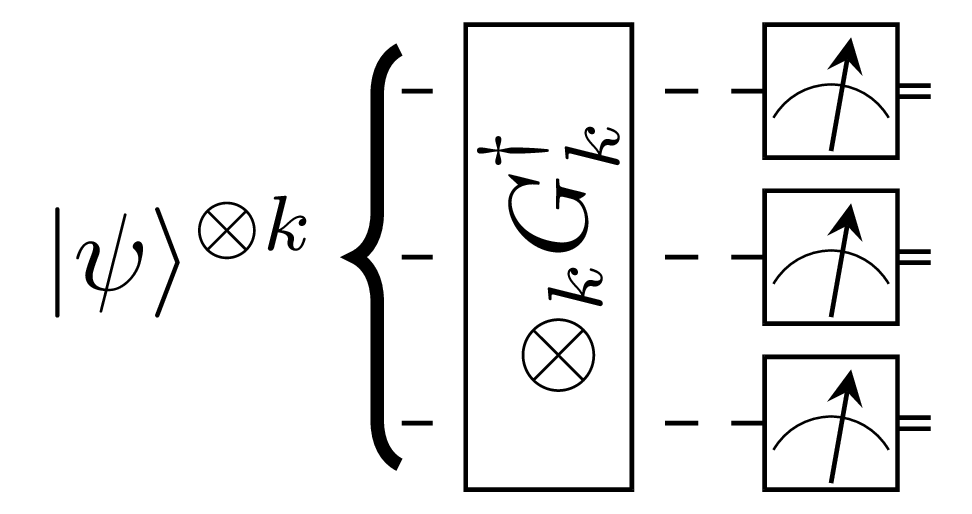
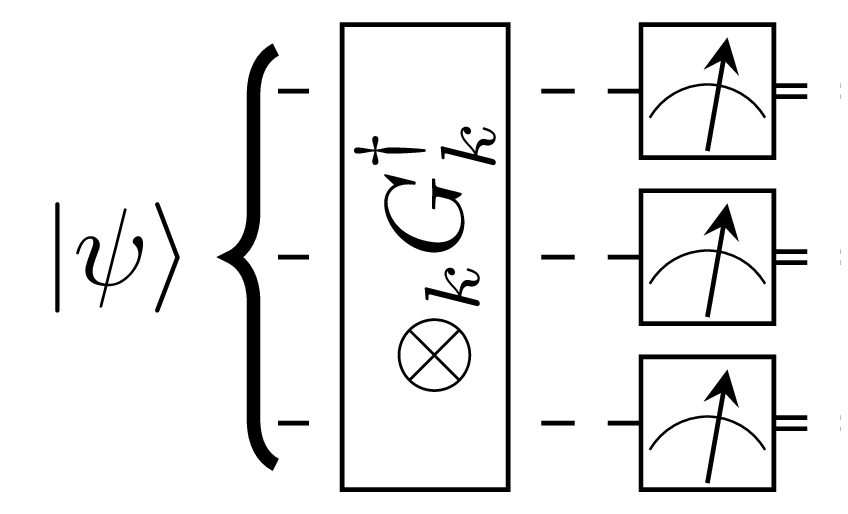
Section on ansatz design.

Changed region(s): [[0.0307, 0.0311, 0.9811, 0.965]]

diff --git a/_code/vqe/compilation.py b/_code/vqe/compilation.py
@@ -45,14 +45,26 @@ def two_qubits_2(theta_1, theta_2, theta_3, phi_1, phi_2, phi_3):
 
     return qml.counts(qml.PauliZ(0) @ qml.PauliZ(1))
 
+def crx_circuit(theta_1, phi_1, theta_2, phi_2):
+    # qml.RY(theta_1, wires = [1])
+    # qml.PhaseShift(phi_1, wires = [1])
+    qml.CRX(theta_2, wires = [1, 0])
+    # qml.ControlledPhaseShift(phi_2, wires = [0, 1])
+    return qml.counts(qml.PauliX(0) @ qml.PauliZ(1))
+
 if __name__ == "__main__":
-    angles = np.random.normal(0, np.pi, 6)
+    # angles = np.random.normal(0, np.pi, 6)
+    # compiled_circuit = qml.compile(
+    #     basis_set = ["CNOT", "RY", "RZ"],
+    #     num_passes = 5
+    # )(two_qubits_2)
 
     compiled_circuit = qml.compile(
-        basis_set = ["CNOT", "RY", "RZ"],
+        basis_set = ["CNOT", "RX", "RZ"],
         num_passes = 5
-    )(two_qubits_2)
-    qnode = qml.QNode(compiled_circuit, dev)
+    )(crx_circuit)
+    angles = np.random.normal(0, np.pi, 4)
 
+    qnode = qml.QNode(compiled_circuit, dev)
     qml.draw_mpl(qnode, decimals = 1, style = "sketch")(*angles)
     plt.show()

diff --git a/_code/vqe/h-vqe.py b/_code/vqe/h-vqe.py
@@ -10,8 +10,8 @@ dev = qml.device(
 
 @qml.qnode(dev)
 def hadamard_cost(theta):
-    qml.PhaseShift(theta[0], wires = 0)
     qml.RY(theta[1], wires = 0)
+    qml.PhaseShift(theta[0], wires = 0)
     return qml.expval(qml.Hadamard(0))
 
 def vqe(cost, theta, maxiter):

diff --git a/_drafts/2023-07-20-variational-quantum-eigensolver.md b/_drafts/2023-07-20-variational-quantum-eigensolver.md
@@ -779,7 +779,7 @@ given a state $\ket{\psi}$ is given by the circuit that follows:
         <span class='caption-label'>Measurement of the
         $H= \bigotimes_{k} \sigma_{k}^{(l)}$ observable:</span>
         even though only three wires/qubits are shown, the state
-        $\ket{\psi}^{\otimes k}$ is built from $k$ qubits,
+        $\ket{\psi}$ is built from $k$ qubits,
         whence the dashed lines.
     </div>
 </div>
@@ -1671,6 +1671,212 @@ so they understand the limitations of VQE, especially
 the *measurement problem*.
 
 ## Ansatz design
+Designing an ansatz is certainly no easy task.
+Building up on the work already done, ansätze can be classified
+into fixed structure or adaptive structure ansätze, see {% cite Tilly_2022 %}.
+
+The software engineer will generally experiment with various ansätze
+for a specific problem via educated guessing.  
+And when appropriate build upon existing ansätze.
+
+Fixed structure ansätze are those where the circuit structure doesn't change
+between optimization phases. In adaptive strucutre ansätze, the circuit
+structure changes as the circuit structure is adapted to the problem
+being solved.
+
+Since this article is meant to serve as an introduction to VQE,
+we won't bother about adaptive structure ansätze;
+we discuss only fixed structure ansätze.  
+Moreover, even in fixed structure ansätze, we will try
+to restrict ourselves to ansätze that a software engineer can tackle.
+
+In fixed structure ansätze, *I* do the following classification:
+1. Physics inspired ansätze.
+2. Hardware inspired ansätze.
+3. Mathematics inspired ansätze.
+
+### Physics inspired ansätze
+In physics inspired ansätze, we look at the structure of the ansätze
+and decide how best to tailor the circuit such that we can efficiently
+search the Hilbert space.
+
+There are two ansätze that have featured prominently with applications
+in quantum chemistry and condensed matter physics.
+
+Since we are software engineers,
+it is not worth our while to study these ansätze in detail,
+it is sufficient to know they exist.
+
+#### Unitary coupled cluster (UCC) ansatz
+This is the ansatz that was used in the original work on VQE {% cite Peruzzo_2014 %}.
+It comes from [coupled cluster theory](https://en.wikipedia.org/wiki/Coupled_cluster)
+for studying many-body systems and has found many uses in *ab initio* quantum
+chemistry.
+
+#### Hamiltonian variational ansatz (HVA)
+The Hamiltonian variational ansatz builds upon the Hamiltonian
+to be studied. The circuit is built by taking the exponential
+of non-commuting terms in the Hamiltonian.
+That procedure gives us unitaries that can be decomposed
+into gates.
+
+The paper that proposed this ansatz, {% cite Wecker_2015 %}
+shows that the ansatz doesn't perform very well in quantum chemistry
+applications but does well on the Hubbard model, a condensed
+matter physics problem.
+
+Since condensed matter physics is one of the fields
+where we expect quantum computing to help, if faced
+with a problem from condensed matter physics,
+HVA is a good ansatz to try out.
+
+### Hardware inspired ansätze 
+The basic idea of hardware inspired ansätze is that
+we create a circuit that closely matches the structure
+of the hardware, most importantly the native gateset,
+and if possible the topology of the device.
+
+This type of ansätze came from {% cite Kandala_2017 %}
+and the original is called hardware-efficient ansatz (HEA).
+There are many variants of it now but this one
+is sufficient to get start.
+
+#### Hardware-efficient ansatz (HEA)
+The fundemental structure of the hardware-efficient ansatz
+is to start with a layer of rotations gates acting individualy
+on each qubit as in the figure that follows:
+
+<div class='figure'>
+    <img src='/assets/images/vqe/hea-init-layer.png'
+         style='width: 40%; height: auto; display: block; margin: 0 auto'/>
+    <div class='caption'>
+        <span class='caption-label'>Possible rotation block of HEA:</span>
+        we have chosen $RX$ and $RY$ as
+        our rotation gates.
+    </div>
+</div>
+
+Then we follow that initialization step with a layer of entangling gates.
+We will generally want the entangling layer to reflect the topology of the
+device so we can avoid introducing additional $SWAP$ gates to account for
+qubits that are not connected directly on the device.
+This layer will look something like what follows in the figure below:
+
+<div class='figure'>
+    <img src='/assets/images/vqe/hea-entangling-layer.png'
+         style='width: 20%; height: auto; display: block; margin: 0 auto'/>
+    <div class='caption'>
+        <span class='caption-label'>Possible entangling block of HEA:</span>
+        we have chosen $CNOT$ gates as our entanglers.
+    </div>
+</div>
+
+The parametrized quantum circuit for HEA will have a general
+structure as per the formula that follows:
+
+{% katexmm %}
+$$
+\begin{align}
+    \ket{\psi(\vec{\theta})} &= \prod_{q=1}^{N} \left[ U^{q,d}(\vec{\theta}) \right] \times U_{ENT} \\
+    &\times \prod_{q=1}^{N} \left[ U^{q,d-1}(\vec{\theta}) \right] \times U_{ENT} \\
+    &\times \cdots \times \\
+    &\times \prod_{q=1}^{N} \left[ U^{q,0}(\vec{\theta}) \right] \ket{00\dots0}
+\end{align}
+$$
+{% endkatexmm %}
+
+Where $q$ is the qubit index up to $N$ qubits and $d$ is number of layers
+since we are allowed to repeat the various rotation and entangling blocks.
+$U^{q,l}(\vec{\theta})$ is the block of rotations acting on $q$ qubits
+in the $d^{th}$ block. Note that if a block in a layer has $M$ rotation gates
+per qubits acting on $N$ qubits, we will need $M \times N$ parameters per block.
+
+<div class='figure figure-alert' style='margin-top: 10px'>
+<div class='caption'>
+    <div class='caption-label'>
+        Exercise
+    </div>
+    The reader is encouraged to use HEA for the two-qubits example(s)
+    we have encounted thus far and explore with changing the number
+    of layers.
+</div>
+</div>
+
+### Mathematics inspired ansätze
+In this class of ansätze, we don't look at the make of the hardware
+nor do we take into consideration the structure of the problem.
+
+The premise is this: how do we prepare arbitrary quantum states?
+There are two ways:
+1. State preparation: start from a know state and ask what circuit
+    would allow us to explore the Hilbert space starting from that state.
+2. Gate synthesis: given an arbitrary starting state, what circuit
+    would allow us to explore the entire Hilbert space?
+
+We have already encountered ansätze based on state preparation
+so there should be no suprise there.
+The gate synthesis problem on the other hand is based
+on create a unitary that prepares an arbitrary quantum state
+then decomposing that unitary into a given gateset
+(that of the device we will run on).
+
+Both approaches fall into the area of quantum compiling
+and this subsection cannot do it justice.
+We will therefore only broach the subject and point
+the reader to a couple of resources.
+
+#### State preparation ansatz
+We learned how to prepare states starting from $\ket{00\dots0}$
+in the previous sections and derived circuits for one and two qubits
+circuits.
+
+But we also learned that the circuits derived are inefficient with
+regard to the number of $CNOT$ gates. This is important because
+$CNOT$ gates are known to be very noisy so they reduce
+the quality of our ansatz.
+
+For two qubits, for instance, it is known that we would not
+need more than a single $CNOT$ gate using the Schmidt decomposition.
+
+The method can be generalized to multiple qubits and is elaborate
+upon in {% cite Murta_2023 %}.
+
+<div class='figure figure-alert' style='margin-top: 10px'>
+<div class='caption'>
+    <div class='caption-label'>
+        Exercise
+    </div>
+    The reader is encouraged to read section VII of the paper
+    {% cite Murta_2023 %} and implement the procedure elaborate
+    upon therein.
+</div>
+</div>
+
+#### Gate synthesis ansatz
+In the gate synthesis ansatz, we build a circuit
+that is capable of preparing any quantum state
+irrespective of the starting state.
+
+This may not be as efficient as the Schmidt decomposition
+but it is still a valid procedure to build ourselves
+ansätze. For instance, the gate synthesis for two qubits
+will produce a circuit with 3 $CNOT$ gates.
+
+A circuit for two qubits gate synthesis
+is presented in {% cite Shende_2004 %}.
+
+<div class='figure figure-alert' style='margin-top: 10px'>
+<div class='caption'>
+    <div class='caption-label'>
+        Exercise
+    </div>
+    The reader is encouraged to implement a generic circuit
+    for single and two qubits gate synthesis and compare
+    the results and optimizations with other types of ansätze
+    already studied, mainly HEA and state preparation based
+    ansätze.
+</div>
+</div>
 
 ## Optimizer selection
 
@@ -1679,6 +1885,10 @@ the *measurement problem*.
 ## Practical considerations
 
 ## Derivations
+Some derivations were too long without adding to the quick
+understanding of the material presented herein.
+
+This section contains those derivations for interested reader.
 
 ### Eigenvalues and eigenvectors of $\sigma^{(z)}$
 #### Eigenvalues
@@ -2125,15 +2335,15 @@ starting from the $\ket{00}$ state.
     {% katexmm %}
     $$
     \begin{align}
-    \ket{\psi_3} &= CRY^{1}_{1\to 0}(\theta_2) \ket{\psi_2} \\
+    \ket{\psi_3} &= CRY^{(1)}_{1\to 0}(\theta_2) \ket{\psi_2} \\
                 &= \cos\dfrac{\theta_1}{2} \ket{00} \\
-                &+ \underbrace{ {\rm e}^{i\phi_1} }_{\text{wrong phase}} \sin\dfrac{\theta_1}{2} \cos\dfrac{\theta_2}{2} \ket{01} \\
-                &+ {\rm e}^{i\phi_1} \sin\dfrac{\theta_1}{2} \sin\dfrac{\theta_2}{2} \ket{11}
+                &+ {\rm e}^{i\phi_1} \sin\dfrac{\theta_1}{2} \cos\dfrac{\theta_2}{2} \ket{01} \\
+                &+ \underbrace{ {\rm e}^{i\phi_1} }_{\text{wrong phase}} \sin\dfrac{\theta_1}{2} \sin\dfrac{\theta_2}{2} \ket{11}
     \end{align}
     $$
     {% endkatexmm %}
     Comparing with the original state $\ket{\psi}$ we are trying to construct,
-    it clear that the term ${\rm e}^{i\phi_1} \sin\dfrac{\theta_1}{2} \cos\dfrac{\theta_2}{2} \ket{11}$
+    it clear that the term ${\rm e}^{i\phi_1} \sin\dfrac{\theta_1}{2} \sin\dfrac{\theta_2}{2} \ket{11}$
     in $\ket{\psi_3}$ has the wrong phase; it should be ${\rm e}^{i\phi_3}$ and not ${\rm e}^{i\phi_1}$.
     We do the correction in the next step.
 
@@ -2141,7 +2351,7 @@ starting from the $\ket{00}$ state.
     {% katexmm %}
     $$
     \begin{align}
-    \ket{\psi_4} &= CP^{1}_{0\to 1}(\phi_3 - \phi_1) \ket{\psi_3} \\
+    \ket{\psi_4} &= CP^{(1)}_{0\to 1}(\phi_3 - \phi_1) \ket{\psi_3} \\
                 &= \cos\dfrac{\theta_1}{2} \ket{00} \\
                 &+ {\rm e}^{i\phi_1} \sin\dfrac{\theta_1}{2} \cos\dfrac{\theta_2}{2} \ket{01} \\
                 &+ {\rm e}^{i\phi_3} \sin\dfrac{\theta_1}{2} \sin\dfrac{\theta_2}{2} \ket{11}
@@ -2153,7 +2363,7 @@ starting from the $\ket{00}$ state.
     {% katexmm %}
     $$
     \begin{align}
-    \ket{\psi_5} &= CRY^{1}_{0\to 1}(\theta_3) \ket{\psi_4} \\
+    \ket{\psi_5} &= CRY^{(1)}_{0\to 1}(\theta_3) \ket{\psi_4} \\
                 &= \cos\dfrac{\theta_1}{2} \ket{00} \\
                 &+ {\rm e}^{i\phi_1} \sin\dfrac{\theta_1}{2} \cos\dfrac{\theta_2}{2} \ket{01} \\
                 &+ \underbrace{ {\rm e}^{i\phi_3} }_{\text{wrong phase}} \sin\dfrac{\theta_1}{2} \sin\dfrac{\theta_2}{2} \cos\dfrac{\theta_3}{2} \ket{10} \\
@@ -2169,7 +2379,7 @@ starting from the $\ket{00}$ state.
     {% katexmm %}
     $$
     \begin{align}
-    \ket{\psi_6} &= CP^{0}_{0\to 1}(\phi_2 - \phi_2) \ket{\psi_5} \\
+    \ket{\psi_6} &= CP^{(0)}_{0\to 1}(\phi_2 - \phi_2) \ket{\psi_5} \\
                 &= \cos\dfrac{\theta_1}{2} \ket{00} \\
                 &+ {\rm e}^{i\phi_1} \sin\dfrac{\theta_1}{2} \cos\dfrac{\theta_2}{2} \ket{01} \\
                 &+ {\rm e}^{i\phi_2} \sin\dfrac{\theta_1}{2} \sin\dfrac{\theta_2}{2} \cos\dfrac{\theta_3}{2} \ket{10} \\
